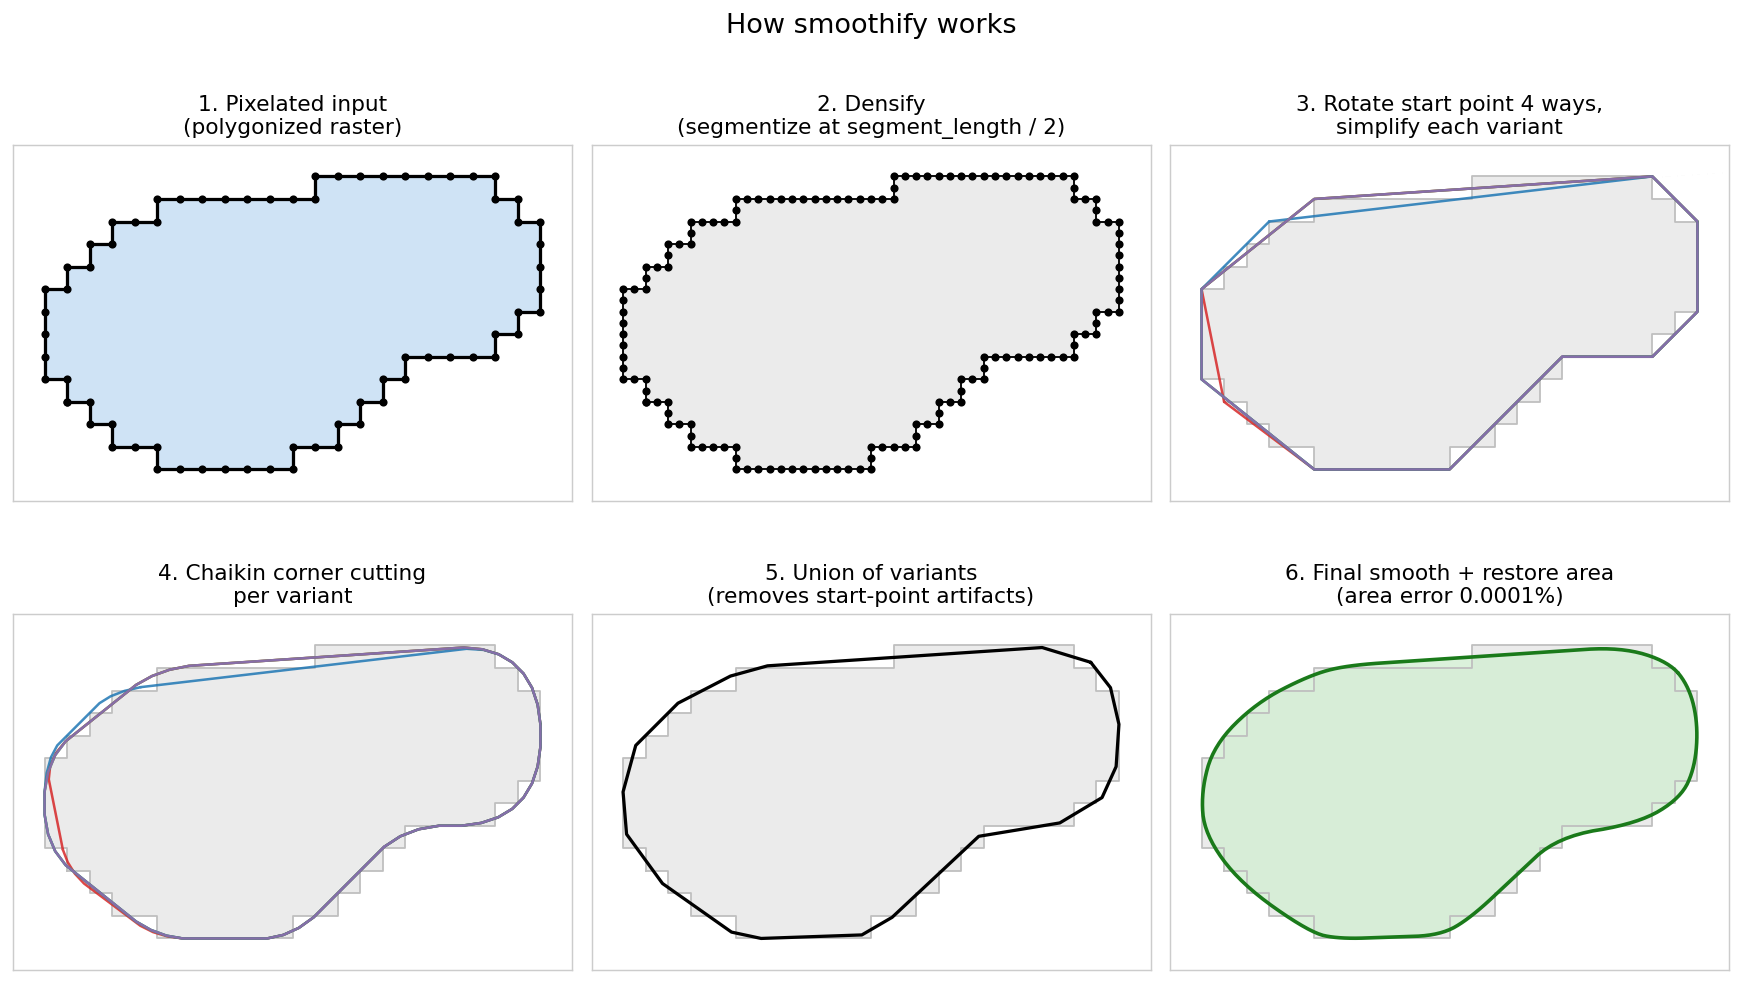
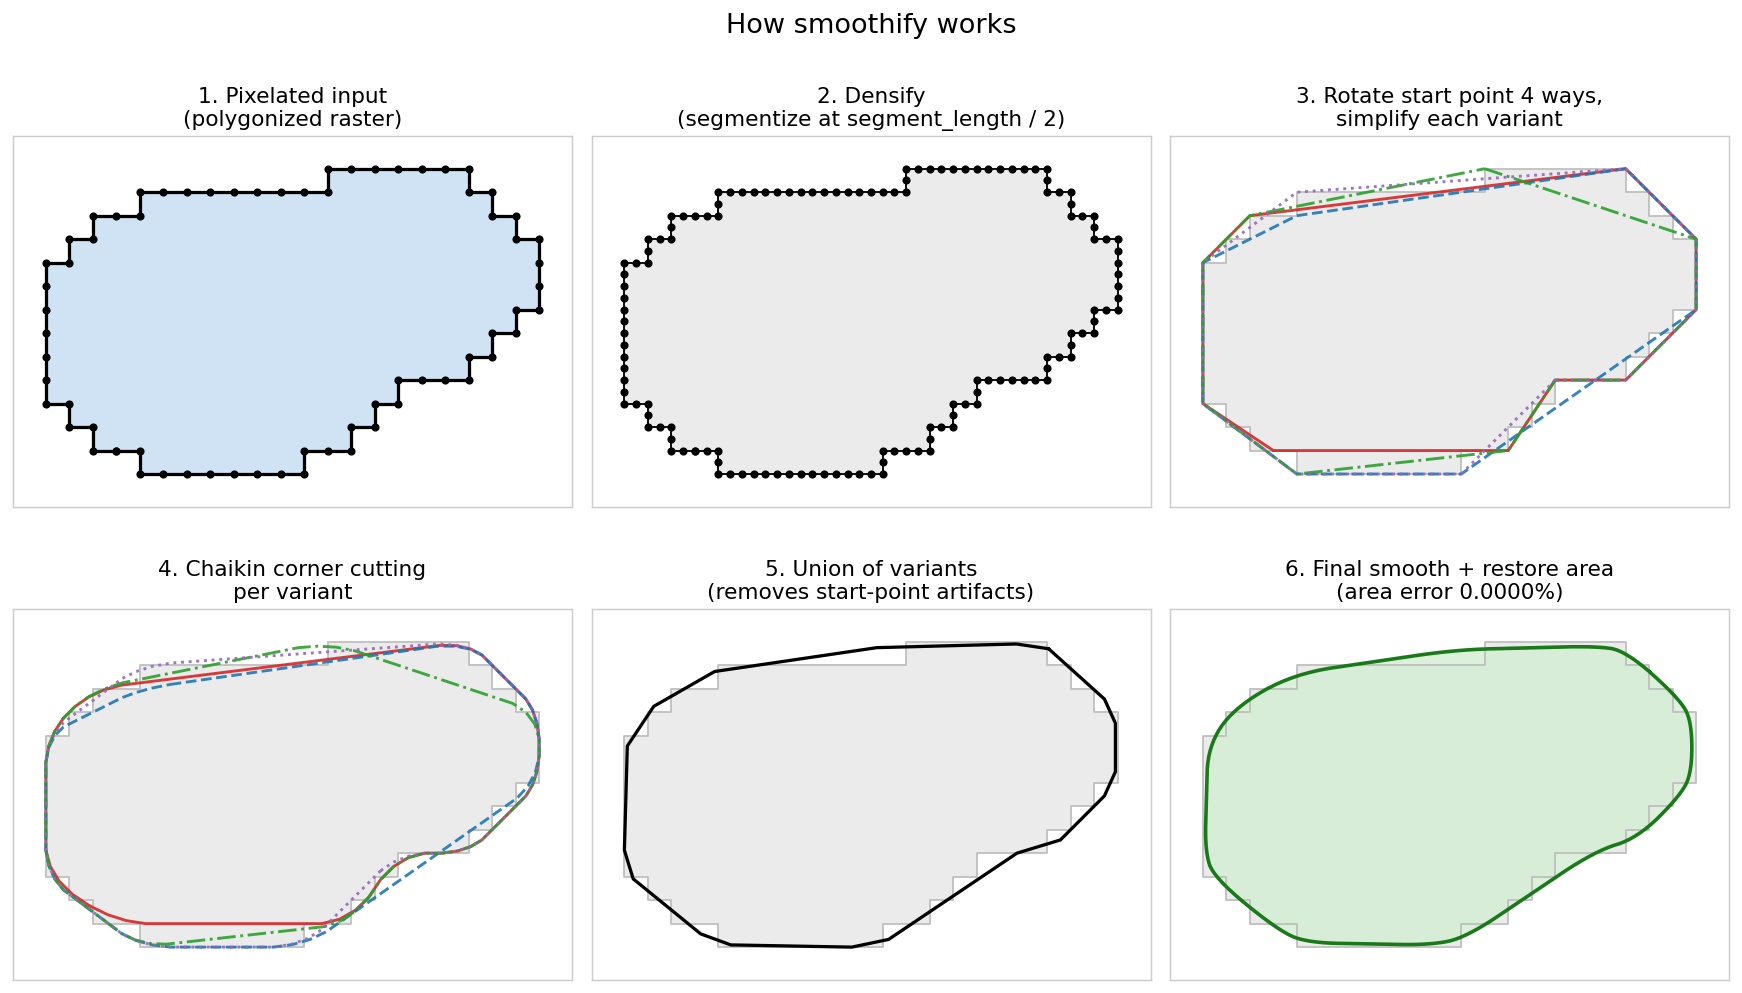
docs: make all four start-point variants visible in pipeline graphic
Two of the four rotated variants simplified to identical polygons on the
previous demo blob and overprinted each other, so the figure appeared to
show only two rotations. Reposition the blob lobes so all variant pairs
differ visibly (min pairwise symmetric difference 14.4 vs 0.0), and give
each variant a distinct linestyle so coincident stretches remain
individually traceable.

diff --git a/images/generate_pipeline_graphic.py b/images/generate_pipeline_graphic.py
@@ -27,17 +27,23 @@ from smoothify.smoothify_core import (
 OUT = Path(__file__).parent / "pipeline_steps.png"
 SEGMENT_LENGTH = 1.0  # "pixel size" of the demo shape
 VARIANT_COLORS = ["#d62728", "#1f77b4", "#2ca02c", "#9467bd"]
+# distinct linestyles so variants stay individually visible even where
+# their outlines coincide
+VARIANT_STYLES = ["-", "--", "-.", ":"]
 
 
 def pixel_blob() -> Polygon:
     """A pond-like raster blob: a smooth shape rasterized at pixel size 1.
 
     Rasterizing a real curve gives an authentic staircase boundary at a
-    realistic feature-to-pixel ratio (~20 pixels across)."""
-    xs, ys = np.meshgrid(np.arange(24), np.arange(18))
+    realistic feature-to-pixel ratio (~20 pixels across). The lobe placement
+    is chosen so all four start-point variants simplify to visibly different
+    polygons (rotated anchors can otherwise land where two variants come out
+    identical and overprint in the figure)."""
+    xs, ys = np.meshgrid(np.arange(26), np.arange(20))
     cx, cy = xs + 0.5, ys + 0.5
-    lobe_a = ((cx - 9) / 8.0) ** 2 + ((cy - 8) / 6.0) ** 2 < 1
-    lobe_b = ((cx - 17) / 6.0) ** 2 + ((cy - 11) / 4.5) ** 2 < 1
+    lobe_a = ((cx - 8.5) / 8.0) ** 2 + ((cy - 8) / 6.0) ** 2 < 1
+    lobe_b = ((cx - 16) / 6.0) ** 2 + ((cy - 10.5) / 4.5) ** 2 < 1
     grid = lobe_a | lobe_b
     squares = [
         Polygon([(x, y), (x + 1, y), (x + 1, y + 1), (x, y + 1)])
@@ -48,15 +54,15 @@ def pixel_blob() -> Polygon:
     return merged
 
 
-def draw(ax, geom, color="black", lw=1.8, dots=False, alpha=1.0, label=None):
+def draw(ax, geom, color="black", lw=1.8, dots=False, alpha=1.0, style="-"):
     xs, ys = geom.exterior.xy
     ax.plot(
         xs,
         ys,
+        style,
         color=color,
         linewidth=lw,
         alpha=alpha,
-        label=label,
         solid_capstyle="round",
     )
     if dots:
@@ -120,14 +126,14 @@ def main() -> None:
 
     ax = panels[2]
     reference(ax, original)
-    for v, c in zip(variants, VARIANT_COLORS, strict=True):
-        draw(ax, v, color=c, lw=1.4, alpha=0.85)
+    for v, c, s in zip(variants, VARIANT_COLORS, VARIANT_STYLES, strict=True):
+        draw(ax, v, color=c, lw=1.6, alpha=0.9, style=s)
     ax.set_title("3. Rotate start point 4 ways,\nsimplify each variant")
 
     ax = panels[3]
     reference(ax, original)
-    for v, c in zip(smoothed_variants, VARIANT_COLORS, strict=True):
-        draw(ax, v, color=c, lw=1.4, alpha=0.85)
+    for v, c, s in zip(smoothed_variants, VARIANT_COLORS, VARIANT_STYLES, strict=True):
+        draw(ax, v, color=c, lw=1.6, alpha=0.9, style=s)
     ax.set_title("4. Chaikin corner cutting\nper variant")
 
     ax = panels[4]